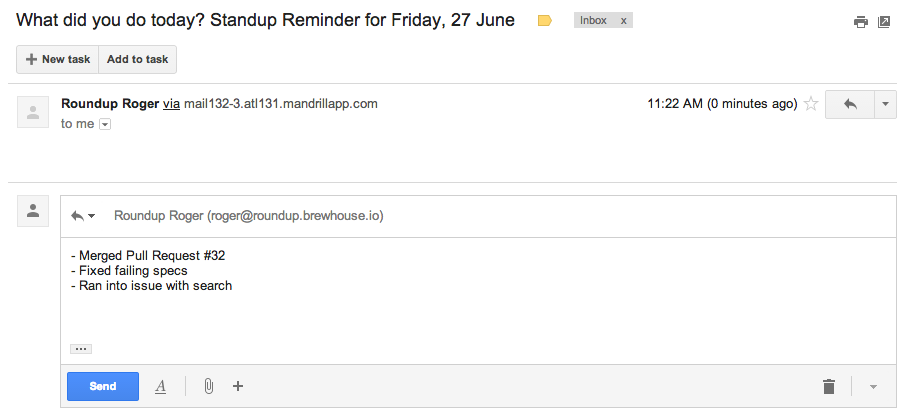
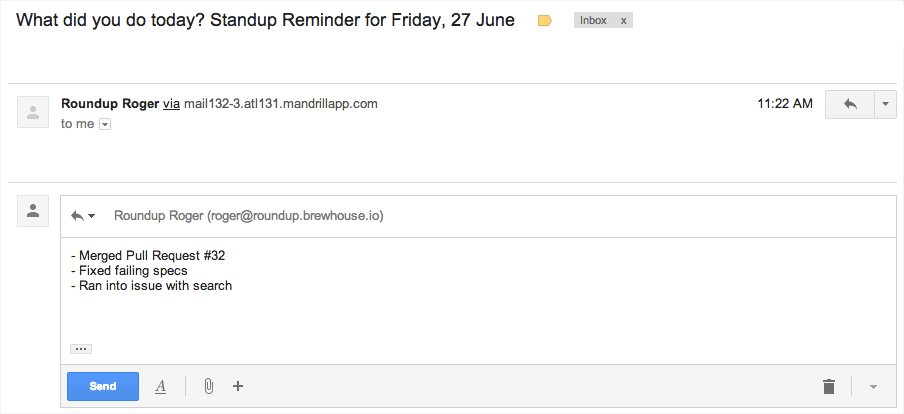
fix up the copy on the roundup roger post and make the images a lil easier to comprehend

Changed region(s): [[0.031, 0.1159, 0.1858, 0.1739], [0.7124, 0.2319, 0.8982, 0.2609], [0.9292, 0.029, 0.9912, 0.087]]

diff --git a/_posts/2014-06-27-say-hello-to-roundup-roger.md b/_posts/2014-06-27-say-hello-to-roundup-roger.md
@@ -5,54 +5,63 @@ author: "jenn"
 date: 2014-06-27 15:36
 ---
 
-At Brewhouse, we spend Fridays doing creativity work. During these wonderful days, we leave the client work behind and work on interesting hacks and innovation projects. Over the last 10 weeks, I’ve been able to spend my Fridays working on a project with [Philippe](https://github.com/pcreux) called [Roundup Roger](https://github.com/BrewhouseTeam/roundup-roger). Roundup Roger is an open source tool meant to replace a team’s wrap-up meeting with email correspondence. In case you're not clear on what a wrap-up meeting is, it's quite similar to an agile standup (or scrum), but is meant to be run at the end of the business day.
 
-You’re probably thinking, “How anti-social of you!”.  Yes, you’re right, we're endorsing email correspondence over face-to-face interaction. But we're talking about wrap-up meetings here, not beer Fridays. 
+<p>
+  <a href="https://github.com/BrewhouseTeam/roundup-roger">
+    <img class="img-right img-responsive" alt="This Week in Rails Logo" src="https://dl.dropboxusercontent.com/u/79436/roundup_roger_logo1.png">
+  </a>
+</p>
 
-The point of a wrap-up is to educate the team on the following:
+At Brewhouse, we spend Fridays doing creative work. During these wonderful days, we focus on interesting hacks and innovative projects. Over the last 10 weeks, I’ve been able to spend my Fridays working on a project with [Philippe Creux](https://github.com/pcreux) called [Roundup Roger](https://github.com/BrewhouseTeam/roundup-roger). Roundup Roger is an open source tool to wrap-up a team's day via email. A wrap-up is quite similar to an agile standup (or scrum), but at the end of the business day.
 
-* What you’ve accomplished during the last business day.
-* What you’ll be working on next.
-* Whether you’ve got any blockers that are impeding your progress.
+You’re probably thinking, “How anti-social of you!”.  Yes, you’re right, we're endorsing email correspondence over face-to-face interaction. But we're talking about wrap-up meetings here, not beer Fridays.
 
-Email works well in this situation because it prevents "chatty Carls" from commandeering your meeting, and allows concise discourse that can be re-visited later if needed. Also, for those of us who have trouble with context switching after programming all day, it can be easier to communicate the work you’ve accomplished by writing it out as opposed to communicating verbally.
+The point of a wrap-up is to educate the team on:
 
-Another benefit of an email wrap-up is submission flexibility. Some of our team members finish later in the day than others, and often accomplish a lot after the in-person wrap-up happens. With Roundup Roger, team members have the flexibility to respond to the reminder email at any time. As long as they send their email before the roundup is sent in the morning, their contributions will be included.
+* What you’ve accomplished during the last business day
+* What you’ll be working on next
+* Whether you’ve hit any blockers that are impeding your progress
+
+Email works well in this situation because it prevents <em>Chatty Carls</em> from commandeering your meeting, and allows concise discourse that can be re-visited later if needed. Also, for those of us who have trouble with (context switching)[http://www.joelonsoftware.com/articles/fog0000000022.html], it can be easier to communicate the work you’ve accomplished by writing it out as opposed to communicating verbally.
+
+Another benefit of an email wrap-up is a flexible response time. Some of our team members finish later in the day than others, and often accomplish a lot after the in-person wrap-up happens. With Roundup Roger, team members have the flexibility to respond to the reminder email at any time. As long as they send their email before the roundup is sent in the morning, their contributions will be included.
 
 
-##How Does Roundup Roger Work?
+## How Does Roundup Roger Work?
 
-Reminder emails are sent out daily at a scheduled time. Each team member responds to the reminder email, outlining the three items above. 
+Reminder emails are sent out daily at a scheduled time. Each team member responds to the reminder email:
 
 ![reminder email](/images/posts/reminder-email.png)
 
-The following day, a roundup email is sent to the entire team with each member’s contributions from the previous day.
+------------------------------------
+
+The following day, a roundup email is sent to the entire team with each member’s contributions from the previous day:
 
 ![roundup email](/images/posts/roundup-email.png)
 
 
-##Technical Details
+## Technical Details
 
-Roundup Roger is a [Sinatra](http://www.sinatrarb.com/) app, that capitalizes on [Sequel's](https://github.com/jeremyevans/sequel) ORM layer. 
+Roundup Roger is a [Sinatra](http://www.sinatrarb.com/) app, that capitalizes on [Sequel's](https://github.com/jeremyevans/sequel) ORM layer.
 
-After using [Rails](http://rubyonrails.org/) over the last couple of years, I had become soft. It’s a sad moment when you realize you’ve become accustomed to having everything done for you. It took me a few weeks to stop trying to use [ActiveRecord](http://guides.rubyonrails.org/active_record_querying.html) when querying the database. But, in the end, I had a good cry and got over myself. I then got much better at using the Sequel gem’s ORM layer. 
+After using [Rails](http://rubyonrails.org/) over the last couple of years, I had become soft. It’s not the best realization to find you’ve become accustomed to having everything done for you. It took me a few weeks to stop trying to use [ActiveRecord](http://guides.rubyonrails.org/active_record_querying.html) when querying the database and in the end, I had a good cry and got over myself. I then became much better at using the Sequel gem’s ORM layer.
 
-I’ve also realized that Sinatra is not really a framework at all, but more of a library. I suppose this is why people call it a 'micro-framework'. 
+I’ve also realized that Sinatra is not really a framework at all, but more of a library. I suppose this is why people call it a 'micro-framework'.
 
-“Hey Sinatra! Thanks for nothing!” 
+“Hey Sinatra! Thanks for nothing!”
 
-Jokes aside, Sinatra ended up being a great tool to solve this problem. As it turns out, we didn’t really need much of the ‘good stuff’ that comes along with Rails. The app itself doesn’t have a web UI and is meant to be run solely via scheduled tasks in production. 
+Jokes aside, Sinatra ended up being a great tool to solve this problem. As it turns out, we didn’t really need much of the ‘good stuff’ that comes along with Rails. The app itself doesn’t have a web UI and is meant to be run solely via scheduled tasks in production.
 
 
-###Building Emails
+### Building Emails
 
 To build emails, we used [Virtus](https://github.com/solnic/virtus) to create a common interface for defining attributes. It allowed us to do things like this:
 
 {% highlight ruby %}
-OutboundEmail.new(to: recipients, body: body, subject: subject)
+  OutboundEmail.new(to: recipients, body: body, subject: subject)
 {% endhighlight %}
 
-When a user replies to a reminder email, we retrieve the payload passed from [Mandrill](https://www.mandrill.com/), and grab the name, email and body, such that we can later apply these to the roundup email. 
+When a user replies to a reminder email, we retrieve the payload passed from [Mandrill](https://www.mandrill.com/), and grab the name, email and body, such that we can later apply these to the roundup email.
 
 When we build the roundup email, we strip each email body to remove signatures. This was somewhat tricky, as different email clients apply signatures differently.
 
@@ -78,7 +87,6 @@ def separator
     [
       "█║▌│ █│║▌ ║││█║▌ │║║█║ │║║█║ █│║▌",
       "▇ ▅ █ ▅ ▇ ▂ ▃ ▁ ▁ ▅ ▃ ▅ ▅ ▄ ▅",
-      "▀▄▀Make something people want▄▀▄",
       "★★★★★★★★★★★★★★★★★★",
       "",
       ].sample
@@ -86,23 +94,23 @@ def separator
 {% endhighlight %}
 
 
-###Sending Emails
+### Sending Emails
 
-We use [Pony](https://github.com/benprew/pony) to send emails. This is where the magic happens... 
+We use [Pony](https://github.com/benprew/pony) to send emails. This is where the magic happens...
 
 {% highlight ruby %}
 class SendOutboundEmail
   def self.call(email)
     Pony.mail({
       :to => email.to,
-      :from => ENV['EMAIL_FROM'], 
-      :subject => email.subject, 
+      :from => ENV['EMAIL_FROM'],
+      :subject => email.subject,
       :html_body => email.body,
       :via => :smtp,
       :via_options => {
         :address        => ENV['SMTP_ADDRESS'],
         :port           => ENV['SMTP_PORT'],
-        :enable_starttls_auto => true, 
+        :enable_starttls_auto => true,
         :user_name      => ENV['SMTP_USER_NAME'],
         :password       => ENV['SMTP_PASSWORD'],
         :authentication => :plain
@@ -113,28 +121,28 @@ end
 {% endhighlight %}
 
 
-###Scheduling and Business Time
+### Scheduling and Business Time
 
 We use the [Business Time](https://github.com/bokmann/business_time) gem to prevent reminders and roundups from being sent on weekends. Perhaps this item should be configurable for those of you who like to work on weekends (why??).
 
-We use the Heroku Scheduler to plan our tasks for daily execution. 
+The Heroku Scheduler plans our tasks for daily execution.
 
 We'd like to think setup is pretty simple. Just schedule the following two rake tasks based on your team’s needs:
 
 {% highlight ruby %}
-rake send_reminders
+  rake send_reminders
 {% endhighlight %}
 
 {% highlight ruby %}
-rake send_roundup
+  rake send_roundup
 {% endhighlight %}
 
-There is also a ```send_test_email``` rake task to test whether SMTP settings are configured correctly. 
+There is also a ```send_test_email``` rake task to test whether SMTP settings are configured correctly.
 
 
-##We Use This
+## We Use This
 
-Since we like to [eat our own dog food](http://brewhouse.io/blog/2014/04/24/this-week-in-rails-the-backstory.html#dogfooding) at Brewhouse, we've been using Roundup Roger as part of our daily efforts for the last couple of months. Our hope is that others will find the same value that we've found. The more teams that try this out, the more we'll know about how to improve it. As always, feedback is welcome.
+Since we like to [eat our own dog food](http://brewhouse.io/blog/2014/04/24/this-week-in-rails-the-backstory.html#dogfooding) at Brewhouse, we've been using Roundup Roger as part of our daily efforts for the last couple of months. Our hope is that others will find the same value that we've found. The more teams that try this out, the more we'll know about how to improve it. As always, feedback and contributions are welcome.
 
 [Give it a try!](https://github.com/BrewhouseTeam/roundup-roger)
 
